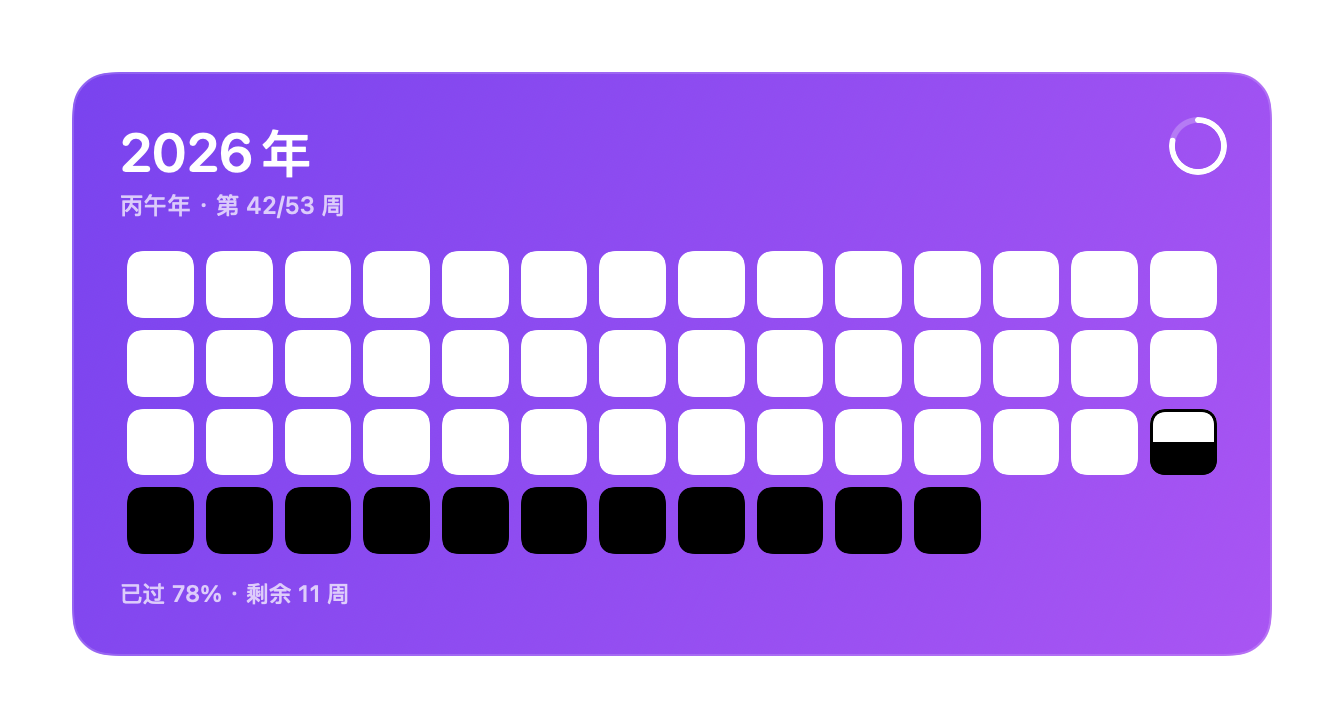
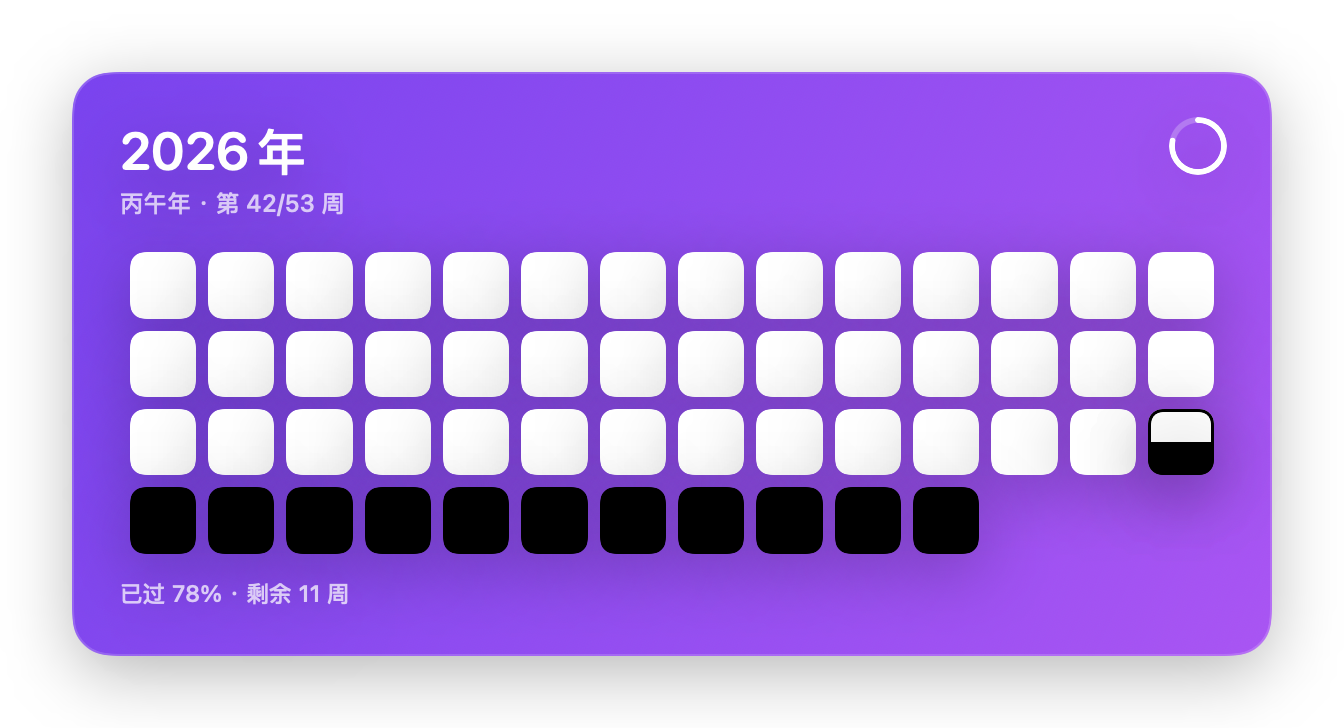
docs: 补系统小组件尺寸预览图

Changed region(s): [[0.0312, 0.1813, 0.9688, 0.967], [0.0938, 0.1813, 0.25, 0.3022]]

diff --git a/README.md b/README.md
@@ -9,6 +9,12 @@
 |---|---|---|---|
 | ![2027](docs/preview-2027.png) | ![week1](docs/preview-week1.png) | ![graphite](docs/preview-graphite.png) | ![year-end](docs/preview-year-end.png) |
 
+系统小组件（medium / small）长这样：
+
+| 通知中心 medium（338×158） | 通知中心 small（158×158） |
+|---|---|
+| ![widget-medium](docs/preview-widget-medium.png) | ![widget-small](docs/preview-widget-small.png) |
+
 - 默认尺寸 **600×292**（比例 2.06，与参考图实测的 442×215 一致）。
 - 默认 **13 列**：52 周的年份正好 4×13 方阵；**53 周的年份自动换列**，避免最后一行只剩一个孤块。
 - 2026 年是 **53 周**（ISO 8601），2025 / 2027 是 52 周。
